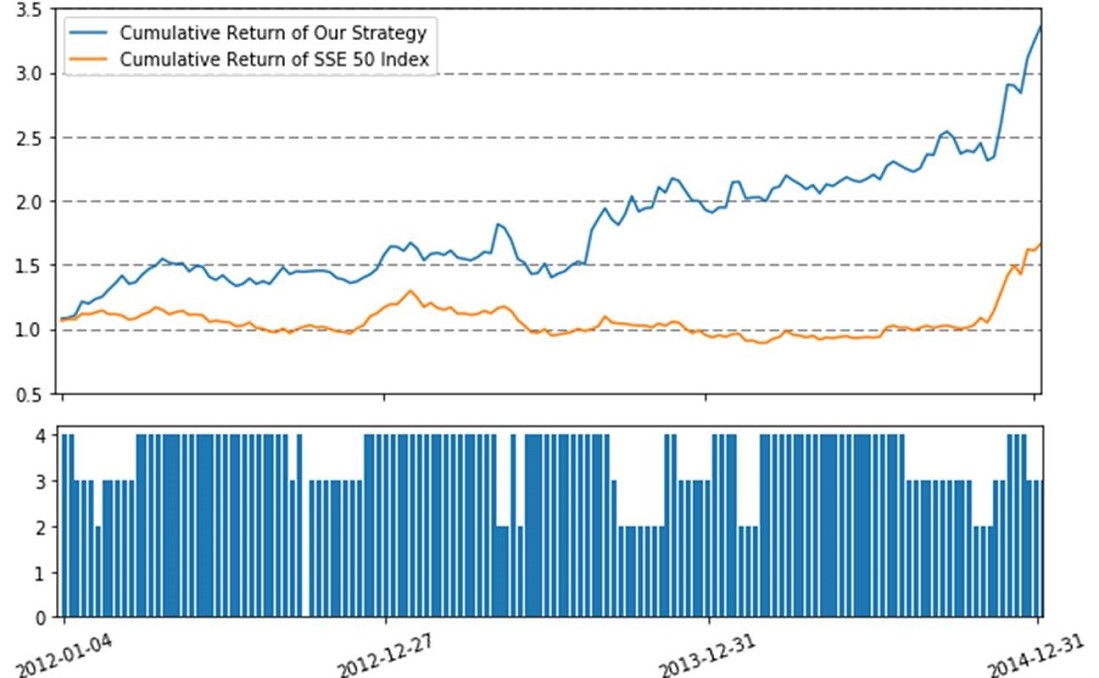
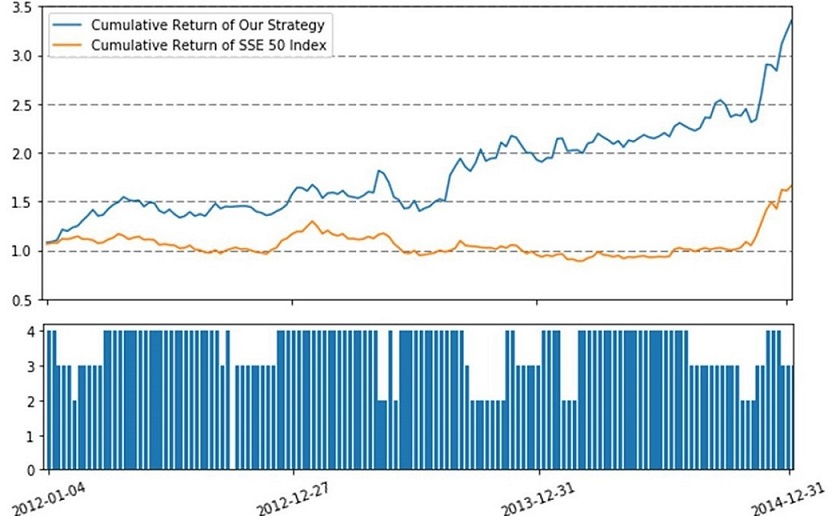
update

diff --git a/index.html b/index.html
@@ -148,7 +148,7 @@
 		<div class="container">
 			<div class="row">
 				<div class="col-lg-2 col-lg-offset-5">
-					<hr class="marginbot-50">
+					<hr class="marginbot-10">
 				</div>
 			</div>
 
@@ -166,14 +166,15 @@
 								</div>
 							</div>
 						</a>
+						<p class="no-gutter wow fadeInUp" data-wow-delay="0.2s">通过机器学习技术预测股票池中每只股票下一周上涨概率，买入排名靠前者，此策略适合于股市平缓期。下图以上证50成分股为股票池(蓝色曲线对应我们的策略，纵坐标为总资产相对初始投入的倍数)。</p>
 					</div>
 				</div>
 
 				<div class="no-gutter wow fadeInRight" data-wow-delay="0.2s">
 					<div class="col-lg-5 col-sm-5">
-						<h3>配对切换</h3>
-						<a href="#galleryModal" class="gallery-box" data-toggle="modal" data-src="img/strategy/配对切换.jpg">
-							<img src="img/strategy/配对切换.jpg" class="img-responsive" alt="Image 2">
+						<h3>智能切换</h3>
+						<a href="#galleryModal" class="gallery-box multi-img" data-toggle="modal" data-src="img/strategy/智能切换1.jpg">
+							<img src="img/strategy/智能切换1.jpg" class="img-responsive" alt="Image 2">
 							<div class="gallery-box-caption">
 								<div class="gallery-box-content">
 									<div>
@@ -182,12 +183,49 @@
 								</div>
 							</div>
 						</a>
+
+						<a href="#galleryModal" class="gallery-box multi-img" data-toggle="modal" data-src="img/strategy/智能切换2.jpg">
+							<img src="img/strategy/智能切换2.jpg" class="img-responsive" alt="Image 3">
+							<div class="gallery-box-caption">
+								<div class="gallery-box-content">
+									<div>
+										<i class="icon-lg ion-ios-search"></i>
+									</div>
+								</div>
+							</div>
+						</a>
+
+
+						<a href="#galleryModal" class="gallery-box multi-img" data-toggle="modal" data-src="img/strategy/智能切换3.jpg">
+							<img src="img/strategy/智能切换3.jpg" class="img-responsive" alt="Image 4">
+							<div class="gallery-box-caption">
+								<div class="gallery-box-content">
+									<div>
+										<i class="icon-lg ion-ios-search"></i>
+									</div>
+								</div>
+							</div>
+						</a>
+						
+						<a href="#galleryModal" class="gallery-box multi-img" data-toggle="modal" data-src="img/strategy/智能切换4.jpg">
+							<img src="img/strategy/智能切换4.jpg" class="img-responsive" alt="Image 5">
+							<div class="gallery-box-caption">
+								<div class="gallery-box-content">
+									<div>
+										<i class="icon-lg ion-ios-search"></i>
+									</div>
+								</div>
+							</div>
+						</a>
+
+						<p class="no-gutter wow fadeInUp" data-wow-delay="0.2s">对按我们的标准选定的一对儿股票，智能捕捉切换时机，以提升收益。以下4图对应4对儿不同股票(蓝色曲线对应我们的策略，纵坐标为总资产相对初始投入的倍数)。</p>
+
 					</div>
 				</div>
 
 				<div class="no-gutter wow fadeInUp" data-wow-delay="0.2s">
 					<div class="col-lg-6 col-sm-6 col-lg-offset-3 col-sm-offset-3">
-						<h3 style="margin-top: 40px;text-transform: Lowercase">more to come soon...</h3>
+						<h3 style="margin-top: 20px;text-transform: Lowercase">more to come soon...</h3>
 					</div>
 				</div>
 

diff --git a/css/style.css b/css/style.css
@@ -1004,6 +1004,7 @@ Parallax
     padding: 0!important;
 }
 
+
 .modal:before {
     content: '';
     display: inline-block;
@@ -1015,4 +1016,23 @@ Parallax
 .modal-dialog {
     display: inline-block;
     vertical-align: middle;
+}
+
+.multi-img {
+  width: 50%;
+  margin: 0;
+  float: left;
+}
+
+#strategy p {
+  text-align: left;
+  width: 90%;
+  margin-top: 10px;
+  margin-left: 5%;
+  font-size: 14px;
+  display: inline-block;
+}
+
+#galleryImage {
+  display: inline-block;
 }
